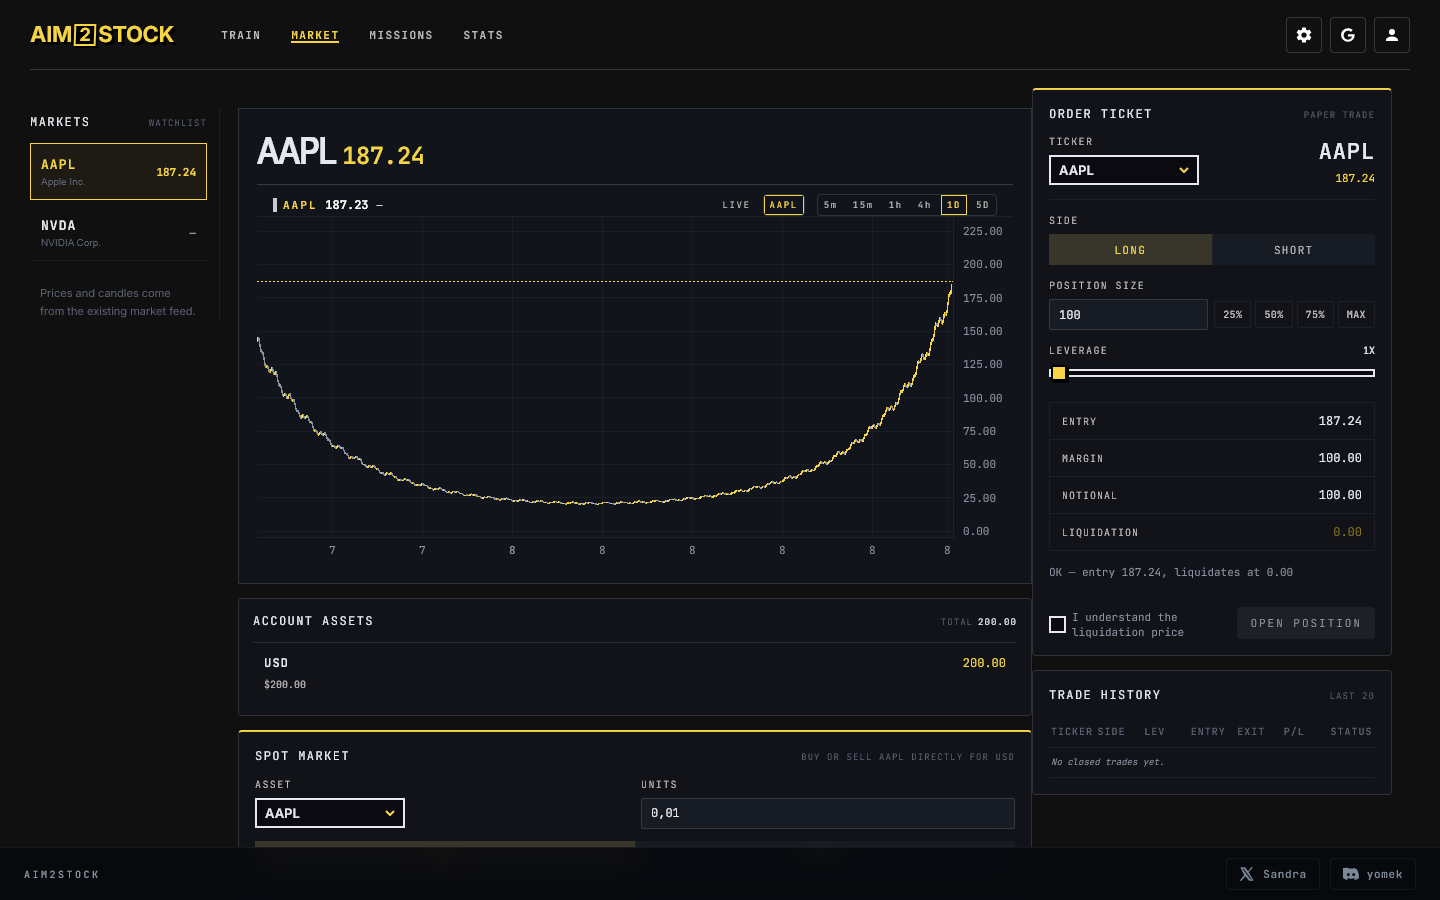
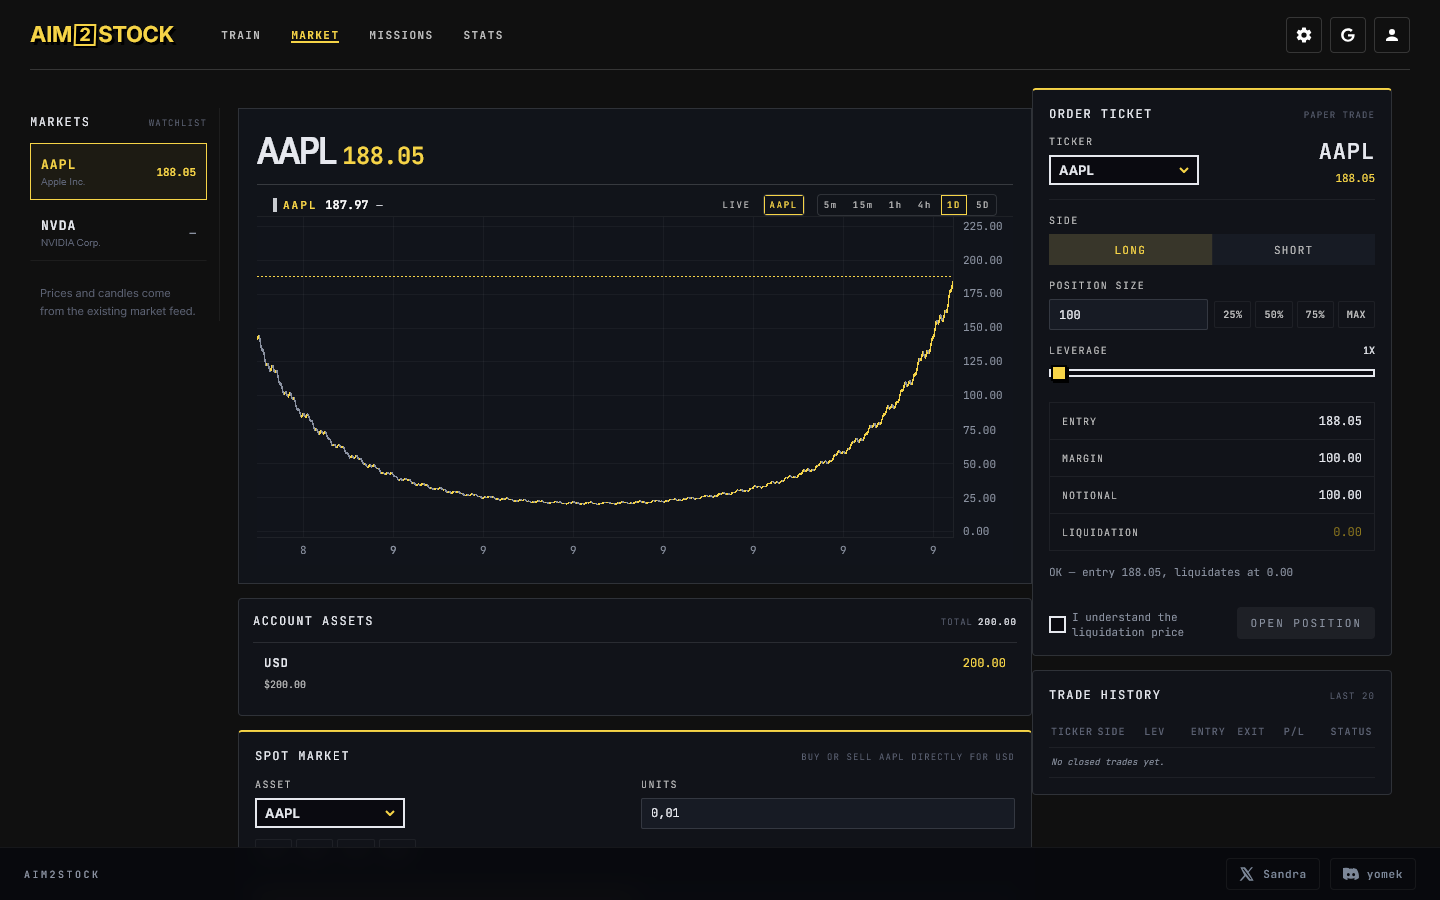
fix post-login token crediting (call auth.restore on load), show email in Profile (playerView email), add 25/50/75/MAX % buttons to Spot market, normalize ESM import version strings to single instance

Changed region(s): [[0.1875, 0.9333, 0.4375, 0.9644], [0.6562, 0.28, 0.6875, 0.3733], [0.25, 0.1556, 0.3125, 0.1867]]

diff --git a/client/js/terminal.js b/client/js/terminal.js
@@ -4,7 +4,7 @@
 // positions, and the trade history. Auto-mounts if a #vibes-terminal
 // element is in the DOM.
 
-import { store } from '../src/store.js?v=20261006-4';
+import { store } from '../src/store.js?v=20261006-8';
 import {
   MAX_LEVERAGE, clampLeverage, clampNotional, round2, round6,
   computeOrder, computeClosePreview, portfolioValue, formatPnl,
@@ -27,6 +27,7 @@ const SELECTORS = {
   convertSubmit: '[data-vt-convert-submit]',
   spotSide:      '[data-vt-spot-side]',
   spotQuoteLabel:'[data-vt-spot-quote-label]',
+  spotPct:       '[data-vt-spot-pct]',
   positionsBody: '[data-vt-positions-body]',
   historyBody:   '[data-vt-history-body]',
   marketTicker:  '[data-vt-market-ticker]',
@@ -456,6 +457,33 @@ export function mountTerminal({ root, onClose } = {}) {
   if (els.convertUnits) {
     els.convertUnits.addEventListener('input', renderConvert);
   }
+  // Spot percentage quick-buttons (25/50/75/MAX). Buy uses % of USD
+  // stable balance; sell uses % of the held ticker balance.
+  panel.querySelectorAll(SELECTORS.spotPct).forEach((btn) => {
+    btn.addEventListener('click', () => {
+      const pct = Number(btn.dataset.vtSpotPct);
+      if (!Number.isFinite(pct)) return;
+      const ticker = els.convertTicker?.value;
+      const price = Number(state.assetPrices[ticker]);
+      const buy = state.spotSide === 'buy';
+      const stable = Number(store.state.player?.stable || 0);
+      const balances = store.state.balances || {};
+      const held = Number(balances[ticker] || 0);
+      let units = 0;
+      if (buy) {
+        // units = usd_budget / price
+        const budget = stable * (pct / 100);
+        units = Number.isFinite(price) && price > 0 ? budget / price : 0;
+      } else {
+        units = held * (pct / 100);
+      }
+      if (els.convertUnits) {
+        els.convertUnits.value = Number.isFinite(units) ? String(round6(units)) : '0';
+      }
+      panel.querySelectorAll(SELECTORS.spotPct).forEach((b) => b.classList.toggle('active', b === btn));
+      renderConvert();
+    });
+  });
   if (els.convertSubmit) {
     els.convertSubmit.addEventListener('click', spotTrade);
   }

diff --git a/client/index.html b/client/index.html
@@ -50,6 +50,7 @@
       <section class="vt-section vt-convert">
         <div class="vt-section-head"><span>Spot market</span><small>Buy or sell AAPL directly for USD</small></div>
         <div class="vt-convert-grid"><label class="vt-control"><span class="vt-field-label">Asset</span><select data-vt-convert-ticker></select></label><label class="vt-control"><span class="vt-field-label">Units</span><input type="number" min="0" step="0.000001" value="0.01" data-vt-convert-units></label></div>
+        <div class="vt-pct-row vt-spot-pct" role="group" aria-label="Spot percent"><button type="button" data-vt-spot-pct="25">25%</button><button type="button" data-vt-spot-pct="50">50%</button><button type="button" data-vt-spot-pct="75">75%</button><button type="button" data-vt-spot-pct="100">MAX</button></div>
         <div class="vt-side-toggle vt-spot-toggle" role="group" aria-label="Spot action"><button type="button" data-vt-spot-side="buy" class="active">Buy</button><button type="button" data-vt-spot-side="sell">Sell</button></div>
         <div class="vt-convert-quote"><span>Rate <b class="num" data-vt-convert-price>—</b></span><strong data-vt-spot-quote-label>Total <b class="num" data-vt-convert-usd>—</b> USD</strong></div>
         <div class="vt-convert-actions"><span class="vt-status" data-vt-convert-status>Loading AAPL spot quote…</span><button type="button" class="vt-btn vt-btn-primary" data-vt-convert-submit disabled>Buy AAPL</button></div>

diff --git a/client/js/auth.js b/client/js/auth.js
@@ -248,9 +248,15 @@ if (typeof window !== 'undefined') {
     document.addEventListener('DOMContentLoaded', () => {
       wireButton();
       paintAuthUi(auth.state);
+      // Restore a persisted Google session on every page load. Without
+      // this, a reload after signing in leaves auth.state.player null,
+      // so the store never calls setPlayerId() and aim hits keep going
+      // to a fresh guest id instead of the Google-backed player.
+      auth.restore().catch(() => {});
     });
   } else {
     wireButton();
     paintAuthUi(auth.state);
+    auth.restore().catch(() => {});
   }
 }

diff --git a/client/js/missions.js b/client/js/missions.js
@@ -3,8 +3,8 @@
 // progress, claim buttons, and a one-time unlock animation when the
 // AAPL chain is complete.
 
-import { store } from '../src/store.js?v=20261006-4';
-import { getActiveTicker, setActiveTicker } from './aim-bridge.js?v=20261006-4';
+import { store } from '../src/store.js?v=20261006-8';
+import { getActiveTicker, setActiveTicker } from './aim-bridge.js?v=20261006-8';
 import {
   MISSIONS, missionProgress, allMissionsClaimed,
   describeUnlocks, formatProgress, NVDA_UNLOCK,

diff --git a/client/js/chart.js b/client/js/chart.js
@@ -11,8 +11,8 @@
 // The module is import-safe in environments where lightweight-charts is
 // not present (tests). In that case, mountChart returns a no-op handle.
 
-import { api } from '../src/api.js?v=20261006-4';
-import { store } from '../src/store.js?v=20261006-4';
+import { api } from '../src/api.js?v=20261006-8';
+import { store } from '../src/store.js?v=20261006-8';
 
 const STALE_AFTER_MS = 5000;
 const POLL_MS = 1000;

diff --git a/client/css/style.css b/client/css/style.css
@@ -892,6 +892,8 @@ canvas#game {
 .vt-input-row { display: flex; align-items: center; gap: 6px; flex: 1; flex-wrap: wrap; }
 .vt-input-row > input { flex: 1 1 80px; min-width: 80px; }
 .vt-pct-row { display: inline-flex; gap: 4px; flex-shrink: 0; }
+.vt-spot-pct { margin: 10px 0 12px; flex-wrap: wrap; }
+.vt-spot-pct button { flex: 1 1 auto; }
 .vt-pct-row button {
   padding: 6px 8px;
   background: transparent;

diff --git a/client/src/bootstrap.js b/client/src/bootstrap.js
@@ -2,7 +2,7 @@
 // before the UI modules mount. Each panel subscribes to the store, so
 // the first render is the real server data, not an empty placeholder.
 
-import { store } from './store.js?v=20261006-7';
+import { store } from './store.js?v=20261006-8';
 
 if (typeof window !== 'undefined') {
   // Expose the store globally so legacy game.js render hooks (e.g. the

diff --git a/server/src/routes/auth.js b/server/src/routes/auth.js
@@ -33,6 +33,7 @@ function playerView(store, playerId) {
     id: p.id,
     stable: p.stable,
     updatedAt: p.updatedAt,
+    email: p.email || null,
   }));
 }
 
